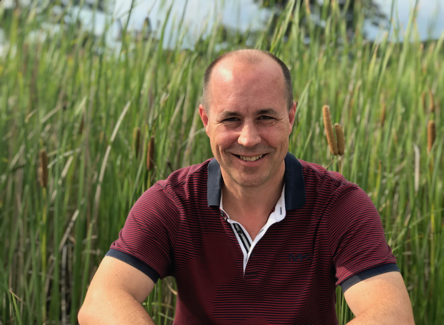
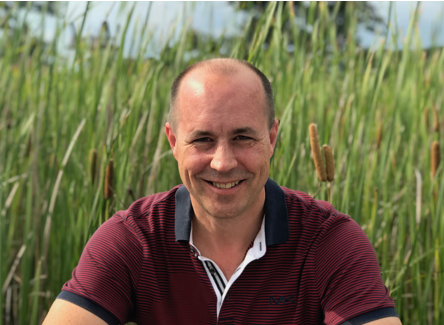
Added what can I do section

diff --git a/index.html b/index.html
@@ -11,20 +11,61 @@
 	<body>
 		<div class="page">
 		  <div class="title title1">Ian Kitchen</div>
-		  <div class="title title2">UX Designer</div>
+		  <div class="title title3">UX Designer</div>
 		  <div class="flexContainer">
-		    <div id="a" class="flexContent flexContentMajor"> this is the major content for the row, it takes twice as much space as the other content  </div>
-		    <div class="flexContentMargin"> </div>
-		    <div id="b" class="flexContent flexContentMinor"> this is the minor content number one </div>
-		  </div>		
-		  <div>
-		    <div class="content"> hello </div>
-		    <div id="reverseNames" class="content"> reverse a list of names </div>
-		
-		    <div id="myButton" class="content"> 
-		      log a click 
-		      <input type="button" id="myButton1" value="hello"/>
+		    <div id="a" class="flexContent flexContentMinor">  
+				<img src=images/profile.png style="width:300px"/>
 		    </div>
+		    <div id="b" class="flexContent flexContentMajor"> 
+				I'm a UX Designer working in the i2 group at IBM. 
+				<br><br>
+				My focus has been on the design of software to support the investigation of criminal networks through the analysis of relationships, financial transactions and communications data. 
+				<br><br>
+				I work by fully understanding user's needs and painpoints, validating assumptions and then mapping out how new capabilities can fit into the workflow. 
+				Creating scenarios with users in order to test proposals against is key to working this way.
+				<br><br>
+				I believe involving the wider product team in this process is essential to a project's success.		    
+			</div>
+		  </div>
+
+		  <div class="title title2">
+			  What can I do for you?
+		  </div>
+		  
+		  <div class="flexContainer">
+		    <div class="flexContent flexContentMinor">  
+				<img src=images/scenario.png style="width:300px"/>
+		    </div>
+		    <div class="flexContent flexContentMajor">
+			    Analyse user needs and pain points
+			    <br><br>
+				Lead ideation sessions to identify innovative solutions
+				<br><br>
+				Work with engineering to ensure design concepts can be implemented
+				<br><br>
+				Produce low-fi prototypes to test workflow against realistic scenarios
+				<br><br>
+				Craft high-fi interactive prototypes in order to test out affordance and feedback
+				<br><br>
+				Work with front end developers on the detail of a design, including visual design
+			    </ul>
+		    </div>
+		  </div>
+
+		  
+		  <div class="flexContainer">
+		  	<div class="flexGrid">1</div>
+		    <div class="flexGrid">2</div>
+		    <div class="flexGrid">3</div>
+		    <div class="flexGrid">4</div>
+		    <div class="flexGrid">5</div>
+		    <div class="flexGrid">6</div>
+		    <div class="flexGrid">7</div>
+		    <div class="flexGrid">8</div>
+		    <div class="flexGrid">9</div>
+		    <div class="flexGrid">0</div>
+		    <div class="flexGrid">1</div>
+		    <div class="flexGrid">2</div>		
 		  </div>
 		</div>
 		

diff --git a/css/styles.less b/css/styles.less
@@ -1,19 +1,28 @@
 
 //Variables
 
+//Shared
+@fontFace: "Helvetica";
+
+//Colors for layout
+/*
 @bodyBackground: #666666; //dark gray
-
-@pageWidth: 860px;
-@pageBackground: #ffee00; //yellow
-@pageHorizontalPadding: 30px;
-@pageVerticalPadding: 10px;
-
 @titleBackground: #eeeeff; //light blue
-
 @flexBackground: #ddeeff; //light blue 2
 @flexContentBackground: #aabbbb; //blue gray
+@pageBackground: #ffee00; //yellow
+*/
 
+//Colors for display
+@bodyBackground: white;
+@titleBackground: white;
+@flexBackground: white;
+@flexContentBackground: white;
+@pageBackground: white;
 
+//Page
+@pageWidth: 960px;
+@standardMargin: 10px;
 
 //Styles
 
@@ -25,8 +34,6 @@ body{
 .page{
   margin-left: auto;
   margin-right: auto;
-  padding-top:1px;
-  padding-bottom:50px;
   width: @pageWidth;
   background-color: @pageBackground;
 }
@@ -34,21 +41,27 @@ body{
 //Title Styles
 
 .title{
-  padding-top:@pageVerticalPadding;
-  padding-left: @pageHorizontalPadding;
-  padding-right: @pageHorizontalPadding;
+  text-align: center;
+  margin-top: @standardMargin;
+  margin-left: @standardMargin;
+  margin-right: @standardMargin;
   background-color: @titleBackground;
 }
 
 .title1{
-  font: 40px arial, sans-serif;
-  margin-top:140px;
+  font: 40px @fontFace, sans-serif;
+  padding-top:140px;
 }
 
 .title2{
-  font: 20px arial, sans-serif;
-  margin-top:20px;
-  margin-bottom:40px;
+  font: 24px @fontFace, sans-serif;
+  margin-top:60px;
+}
+
+.title3{
+  font: 18px @fontFace, sans-serif;
+  color: #aba6a6;
+  margin-top:24px;
 }
 
 
@@ -56,36 +69,29 @@ body{
 
 .flexContainer {
   display:flex;
-  padding-top:10px;
-  padding-bottom:10px;
-  padding-left: @pageHorizontalPadding;
-  padding-right: @pageHorizontalPadding;
+  margin-top:60px;
   background-color: @flexBackground;
 }
 
 .flexContent {
-  padding-top:10px;
-  padding-bottom:10px;
+  margin:10px;
+  font: 16px @fontFace, sans-serif;
   text-align: left;
   background-color: @flexContentBackground;
 }
 
 .flexContentMinor{
-  flex: 1 1 auto;	
+  flex: 1 1 auto;
 }
 
 .flexContentMajor {
-  flex: 2 2 auto;	
+  flex: 99 2 auto;	
 }
 
-.flexContentMargin {
-  flex: 0 0 20px;
-  background-color:@pageBackground;	
+.flexGrid{
+  margin:10px;
+  width:60px;
+  background-color: gray;
+
 }
 
-.content {
-  padding-left: @pageHorizontalPadding;
-  background-color: #FFFFFF;
-  padding-top:20px;
-  padding-bottom:20px;
-}

diff --git a/js/script.js b/js/script.js
@@ -1,29 +1,5 @@
 $(document).ready(function(){
-	$("#myButton").click(function(){console.log("click")});
-	
-	$("#myButton1").click(function(){alert("hello " + ian.fullName())});
-
-	//document.getElementById('myButton3').addEventListener('click',function () { alert('hello!');},false);
-	
-	
-	//arrays and objects
-	var names = ["Ian", "Angela", "Nicole", "Sam"]
-	var ian = { 
-	    firstName: "Ian", 
-	    lastName: "Kitchen",
-	    fullName: function(){return this.firstName + " " + this.lastName}
-	}
-	 
-	$("#reverseNames").click(function(){
-	  console.log(names)
-	  var reverseNames = []
-	  for(var i=3; i >= 0; i--)
-	    {
-	      reverseNames.push(names[i])
-	      console.log(i)
-	    }
-	  console.log(reverseNames)
-	});
+	$("#myButton").click(function(){alert("click")});
 });
 
 

diff --git a/css/styles.css b/css/styles.css
@@ -4,19 +4,3 @@
 
 
 
-
-
-
-
-
-
-
-
-.flexContent:hover{
-  background-color: #99BBBB;
-}
-
-
-
-
-
